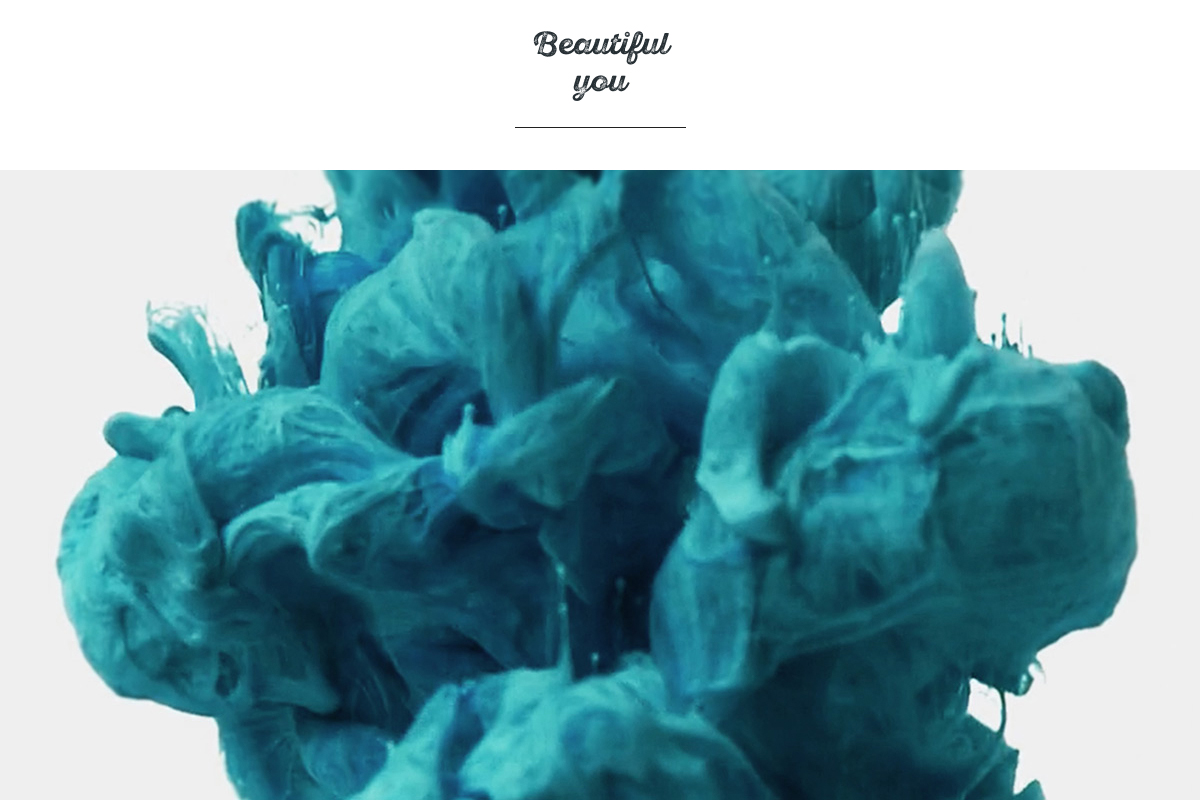
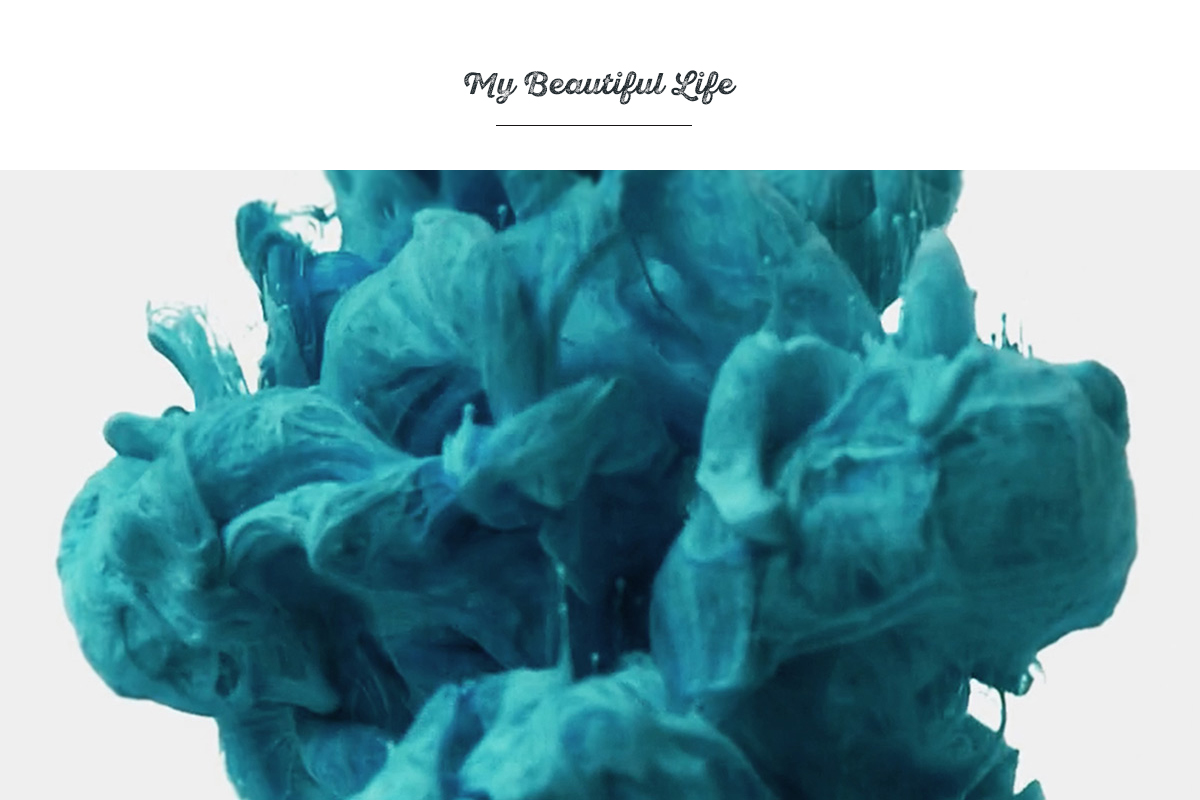
changed to dreamboard title ot my beautiful life

Changed region(s): [[0.37, 0.0312, 0.6167, 0.125]]

diff --git a/resources/views/app/dashboard/modules/visualise.blade.php b/resources/views/app/dashboard/modules/visualise.blade.php
@@ -2,17 +2,17 @@
     <div class="inner-padding">
         <h1 class="title">
             @if($style === 'pdf')
-                <img src="{{asset('img/beautiful-you.png')}}" width="205px" height="34px" alt="">
+                <img src="{{asset('img/beautiful-you.png')}}" width="283px" height="35px" alt="">
             @else
-            Beautiful you
+            My Beautiful Life
             @endif
         </h1>
 
-        <img src="{{route('dreamboard.show', [$module->pivot->secret])}}" alt="Beautiful You">
+        <img src="{{route('dreamboard.show', [$module->pivot->secret])}}" alt="My Beautiful Life">
 
         <ul class="social">
             <li><a class="fb"  data-share href="https://www.facebook.com/sharer/sharer.php?{{http_build_query(['u' => route('module.share', [$module->pivot->secret])])}}">Share on Facebook</a></li>
-            <li><a class="pin" data-share href="//www.pinterest.com/pin/create/button/?{{http_build_query(['url' => route('module.share', [$module->pivot->secret]), 'media' => route('dreamboard.show', [$module->pivot->secret]), 'description' => 'My Dreamboard'])}}">Share on Pinterest</a></li>
+            <li><a class="pin" data-share href="//www.pinterest.com/pin/create/button/?{{http_build_query(['url' => route('module.share', [$module->pivot->secret]), 'media' => route('dreamboard.show', [$module->pivot->secret]), 'description' => 'My Beautiful Life'])}}">Share on Pinterest</a></li>
             <li><a class="dl" href="{{route('dreamboard.show', [$module->pivot->secret, 'fb' => 1])}}" target="_blank" >Download</a></li>
         </ul>
     </div>

diff --git a/resources/views/app/share-modules/visualise.blade.php b/resources/views/app/share-modules/visualise.blade.php
@@ -14,8 +14,7 @@
 @section('content')
 <div class="content">
     <h1 class="title">
-        Beautiful<br>
-        you
+        My Beautiful Life
     </h1>
     <img src="{{route('dreamboard.show', [$module->pivot->secret])}}" />
 </div>
